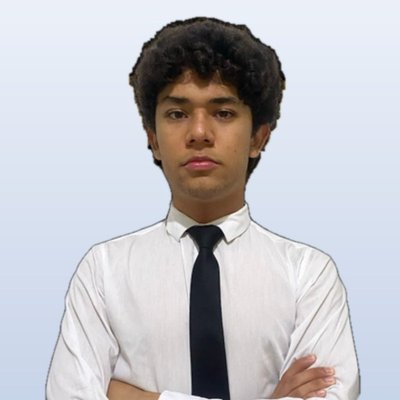
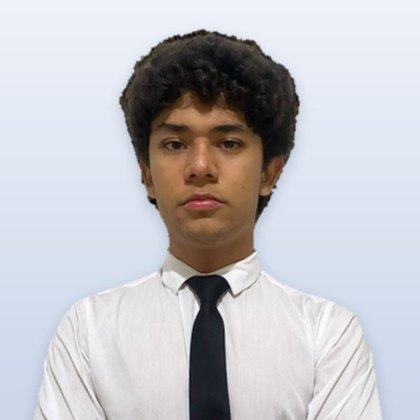
Add files via upload

Changed region(s): [[0.09, 0.03, 0.93, 1.0]]

diff --git a/js/dados.js b/js/dados.js
@@ -1539,12 +1539,14 @@ window.DADOS = {
       {
        "nome": "Clarindo Kainã Batista Ferreira",
        "cap": "1231",
-       "cargo": "Mestre Conselheiro Estadual"
+       "cargo": "Mestre Conselheiro Estadual",
+       "foto": "img/liderancas/clarindo-kaina-batista-ferreira.jpg"
       },
       {
        "nome": "Francisco de Souza Feitoza",
        "cap": "1225",
-       "cargo": "Mestre Conselheiro Estadual Adjunto"
+       "cargo": "Mestre Conselheiro Estadual Adjunto",
+       "foto": "img/liderancas/francisco-de-souza-feitoza-mcea.jpg"
       }
      ],
      "vigente": true,
@@ -1636,10 +1638,7 @@ window.DADOS = {
     "nome": "Alexandre Alves de Azevedo Filho",
     "cap": "919",
     "cargo": "Grande Tesoureiro Estadual Adjunto",
-    "foto": [
-     "48fc4c56cd3c427693a4f59f688aab52",
-     "c"
-    ]
+    "foto": "img/liderancas/alexandre-alves-de-azevedo-filho.jpg"
    },
    {
     "nome": "Weslley Fagundes Serra",
@@ -1870,10 +1869,7 @@ window.DADOS = {
       "nome": "Alexandre Alves de Azevedo Filho",
       "cap": "919",
       "cargo": "Presidente",
-      "foto": [
-       "48fc4c56cd3c427693a4f59f688aab52",
-       "c"
-      ]
+      "foto": "img/liderancas/alexandre-alves-de-azevedo-filho.jpg"
      },
      {
       "nome": "Gabriel Francisco Araújo",
@@ -1912,10 +1908,7 @@ window.DADOS = {
       "nome": "Alexandre Alves de Azevedo Filho",
       "cap": "919",
       "cargo": "Membro",
-      "foto": [
-       "48fc4c56cd3c427693a4f59f688aab52",
-       "c"
-      ]
+      "foto": "img/liderancas/alexandre-alves-de-azevedo-filho.jpg"
      },
      {
       "nome": "Hudson Miranda Sousa",
@@ -2170,29 +2163,33 @@ window.DADOS = {
    "obs": null,
    "pessoas": [
     {
-     "nome": "Arthur Sandri Tischler",
-     "cap": "921",
-     "cargo": "Mestre Conselheiro Regional"
-    },
-    {
-     "nome": "Bruno Novaes Carneiro de Albuquerque",
-     "cap": "239",
-     "cargo": "Mestre Conselheiro Regional"
+     "nome": "Nicollas de Oliveira Cunha",
+     "cap": "818",
+     "cargo": "MCR da 1ª Oficialaria",
+     "foto": "img/liderancas/nicollas-de-oliveira-cunha.jpg"
     },
     {
      "nome": "Francisco Jovita Carneiro Neto",
      "cap": "870",
-     "cargo": "Mestre Conselheiro Regional"
-    },
-    {
-     "nome": "Nicollas de Oliveira Cunha",
-     "cap": "818",
-     "cargo": "Mestre Conselheiro Regional"
+     "cargo": "MCR da 2ª Oficialaria",
+     "foto": "img/liderancas/francisco-jovita-carneiro-neto.jpg"
     },
     {
      "nome": "Vinícius Damaceno Jansen",
      "cap": "1188",
-     "cargo": "Mestre Conselheiro Regional"
+     "cargo": "MCR da 3ª Oficialaria"
+    },
+    {
+     "nome": "Arthur Sandri Tischler",
+     "cap": "921",
+     "cargo": "MCR da 4ª Oficialaria",
+     "foto": "img/liderancas/arthur-sandri-tischler.jpg"
+    },
+    {
+     "nome": "Bruno Novaes Carneiro de Albuquerque",
+     "cap": "239",
+     "cargo": "MCR da 5ª Oficialaria",
+     "foto": "img/liderancas/bruno-novaes-carneiro-de-albuquerque.jpg"
     }
    ]
   },
@@ -2454,7 +2451,11 @@ window.DADOS = {
     {
      "nome": "Paulo Ytallo Alves da Silva",
      "cap": "870",
-     "cargo": "Presidente"
+     "cargo": "Presidente",
+     "foto": [
+      "eff7d2ee13c94e4c98aa1052266556fb",
+      "c"
+     ]
     },
     {
      "nome": "Alek Wayne de Souza Santos",
@@ -2736,7 +2737,11 @@ window.DADOS = {
    "ano": "2016",
    "demolay": {
     "nome": "Lucas Fonseca Rezende",
-    "cap": "312"
+    "cap": "312",
+    "foto": [
+     "41d7e847181443499735f39a20fe118e",
+     "c"
+    ]
    },
    "consultor": {
     "nome": "Geraldo Pinto Alves Filho",
@@ -2751,7 +2756,11 @@ window.DADOS = {
    },
    "consultor": {
     "nome": "Luiz Alberto Lopes de Sousa",
-    "cap": "919"
+    "cap": "919",
+    "foto": [
+     "23fcf0f9437d4f92b2a96f10d5ea957e",
+     "c"
+    ]
    }
   },
   {
@@ -2886,7 +2895,8 @@ window.DADOS = {
    },
    "consultor": {
     "nome": "Arlan Paixão de Sousa",
-    "cap": "1225"
+    "cap": "1225",
+    "foto": "img/liderancas/arlan-paixao-de-sousa.jpg"
    }
   }
  ],

diff --git a/css/estilo.css b/css/estilo.css
@@ -158,6 +158,7 @@ p { margin: 0; }
 .foto__dentro { position: relative; width: 100%; height: 100%; border-radius: 50%; overflow: hidden; background: var(--azul); display: grid; place-items: center; border: 3px solid var(--papel); }
 .foto__dentro b { font: 800 34px/1 var(--display); color: rgba(255, 255, 255, .9); letter-spacing: .02em; }
 .foto__dentro img { position: absolute; inset: 0; width: 100%; height: 100%; object-fit: cover; background: #fff; }
+.foto__dentro img.nova { transform: scale(1.32); transform-origin: 50% 14%; }
 .pessoa h3 { font-size: 18.5px; color: var(--azul); }
 :root[data-theme="dark"] .pessoa h3 { color: #fff; }
 @media (prefers-color-scheme: dark) { :root:not([data-theme="light"]) .pessoa h3 { color: #fff; } }

diff --git a/js/app.js b/js/app.js
@@ -41,7 +41,7 @@
   const PINO = '<svg width="12" height="14" viewBox="0 0 12 14" aria-hidden="true"><path fill="currentColor" d="M6 0a6 6 0 0 0-6 6c0 4.4 6 8 6 8s6-3.6 6-8a6 6 0 0 0-6-6zm0 8.2A2.2 2.2 0 1 1 6 3.8a2.2 2.2 0 0 1 0 4.4z"/></svg>';
 
   function foto(p) {
-    return `<div class="foto"><div class="foto__dentro"><b>${esc(iniciais(p.nome))}</b>${p.foto ? img(urlFoto(p.foto), 'Foto de ' + p.nome) : ''}</div></div>`;
+    return `<div class="foto"><div class="foto__dentro"><b>${esc(iniciais(p.nome))}</b>${p.foto ? img(urlFoto(p.foto), 'Foto de ' + p.nome, typeof p.foto === 'string' ? 'nova' : '') : ''}</div></div>`;
   }
   function pessoa(p, cargo) {
     const c = cargo ?? p.cargo;
